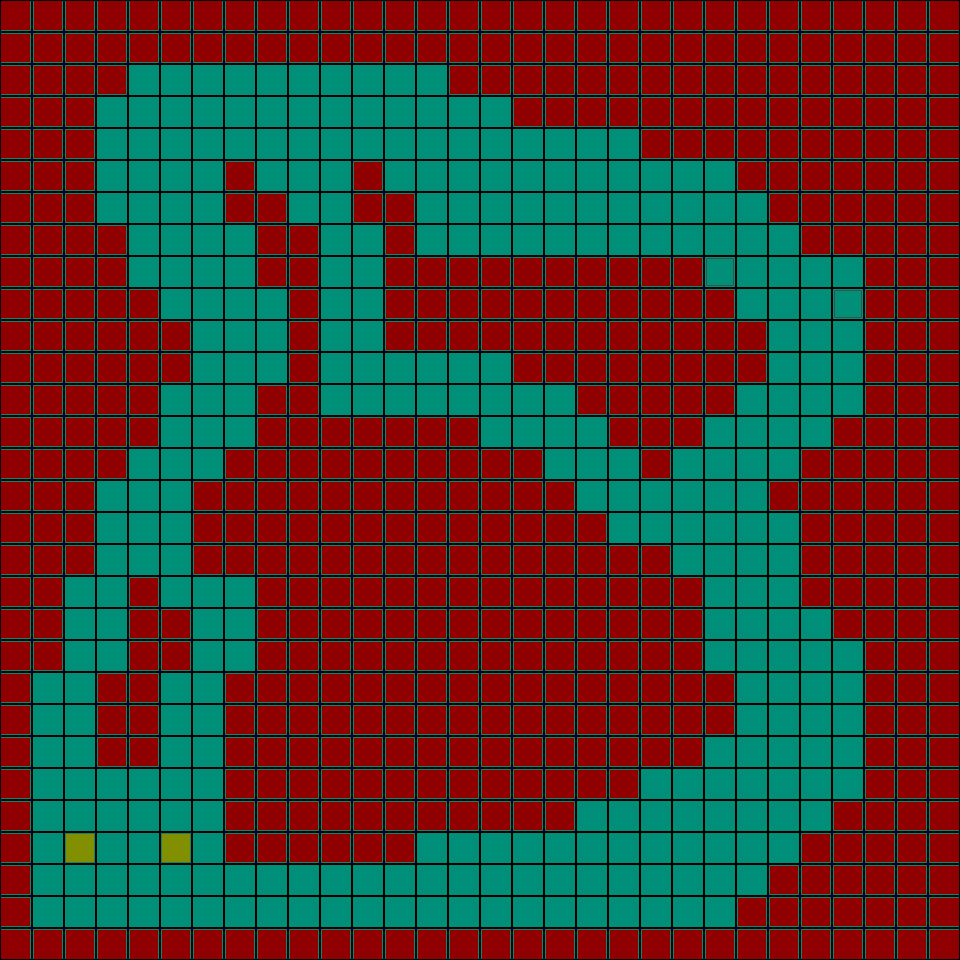
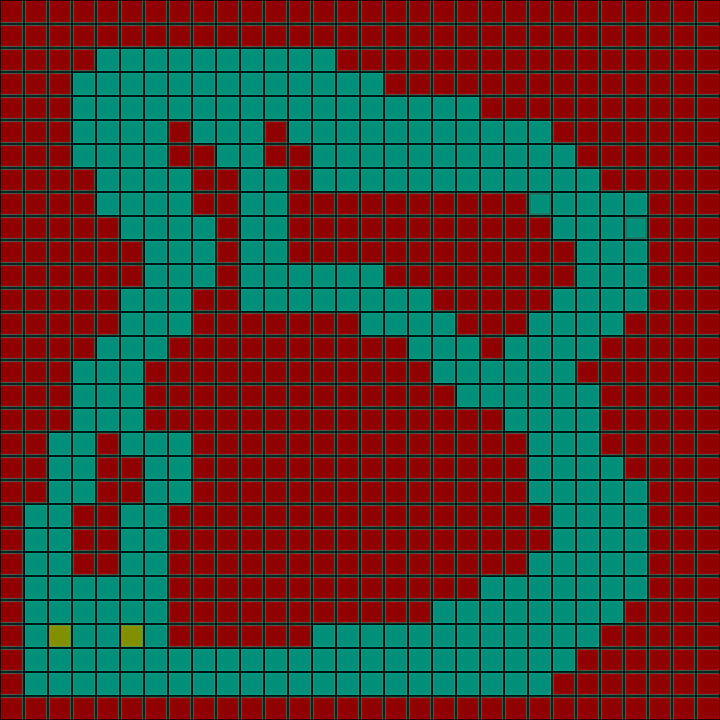
Grafikus asszem kész
Tesztelhető

diff --git a/szoftlab4Grafikus/src/graphics/GraphicsController.java b/szoftlab4Grafikus/src/graphics/GraphicsController.java
@@ -42,7 +42,7 @@ public class GraphicsController {
 	JLayeredPane mapContentPane;
 	JPanel controlPane;
 	JLabel turnLabel;
-	int tileSize = 32;
+	int tileSize = 24;
 	
 	private JFrame frame;
 	
@@ -246,7 +246,7 @@ public class GraphicsController {
 			for(int x = 0; x < width; x++){
 				TileGraphics tile = new TileGraphics(mapTiles[y][x], x, y);
 				JLayeredPane panel = new JLayeredPane();
-				panel.setBounds(x * 32, y * 32, 32, 32);
+				panel.setBounds(x * tileSize, y * tileSize, tileSize, tileSize);
 				panel.setLayout(new BorderLayout());
 				panel.setBackground(alphaNull);
 				mapContentPane.add(panel);

diff --git a/szoftlab4Grafikus/src/szoftlab4Proto/Game.java b/szoftlab4Grafikus/src/szoftlab4Proto/Game.java
@@ -76,7 +76,7 @@ public class Game {
 		graphicsController.setTurns(0, turns);
 		graphicsController.setCurrentRobot("Robot 0");
 
-		this.playerNum = playerNum;
+		this.playerNum = (playerNum <= mapFactory.getSpawnCount() ? playerNum : mapFactory.getSpawnCount());
 		this.turns = turns;
 		
 		robots = new ArrayList<Robot>();
@@ -185,7 +185,8 @@ public class Game {
 		int index = 0;
 		int max = -1;
 		
-		
+		if(playerNum == 1)
+			return 0;
 		if (currentTurn == turns){
 			for (Robot element : robots) {
 			    if (max < element.getDistance()){

diff --git a/szoftlab4Grafikus/src/szoftlab4Proto/MapFactory.java b/szoftlab4Grafikus/src/szoftlab4Proto/MapFactory.java
@@ -113,5 +113,9 @@ public class MapFactory {
         currentSpawnTile = (currentSpawnTile + 1) % spawnTiles.size();
         return spawnTiles.get(currentSpawnTile);
     }
+    
+    public int getSpawnCount(){
+    	return spawnTiles.size();
+    }
 
 }
